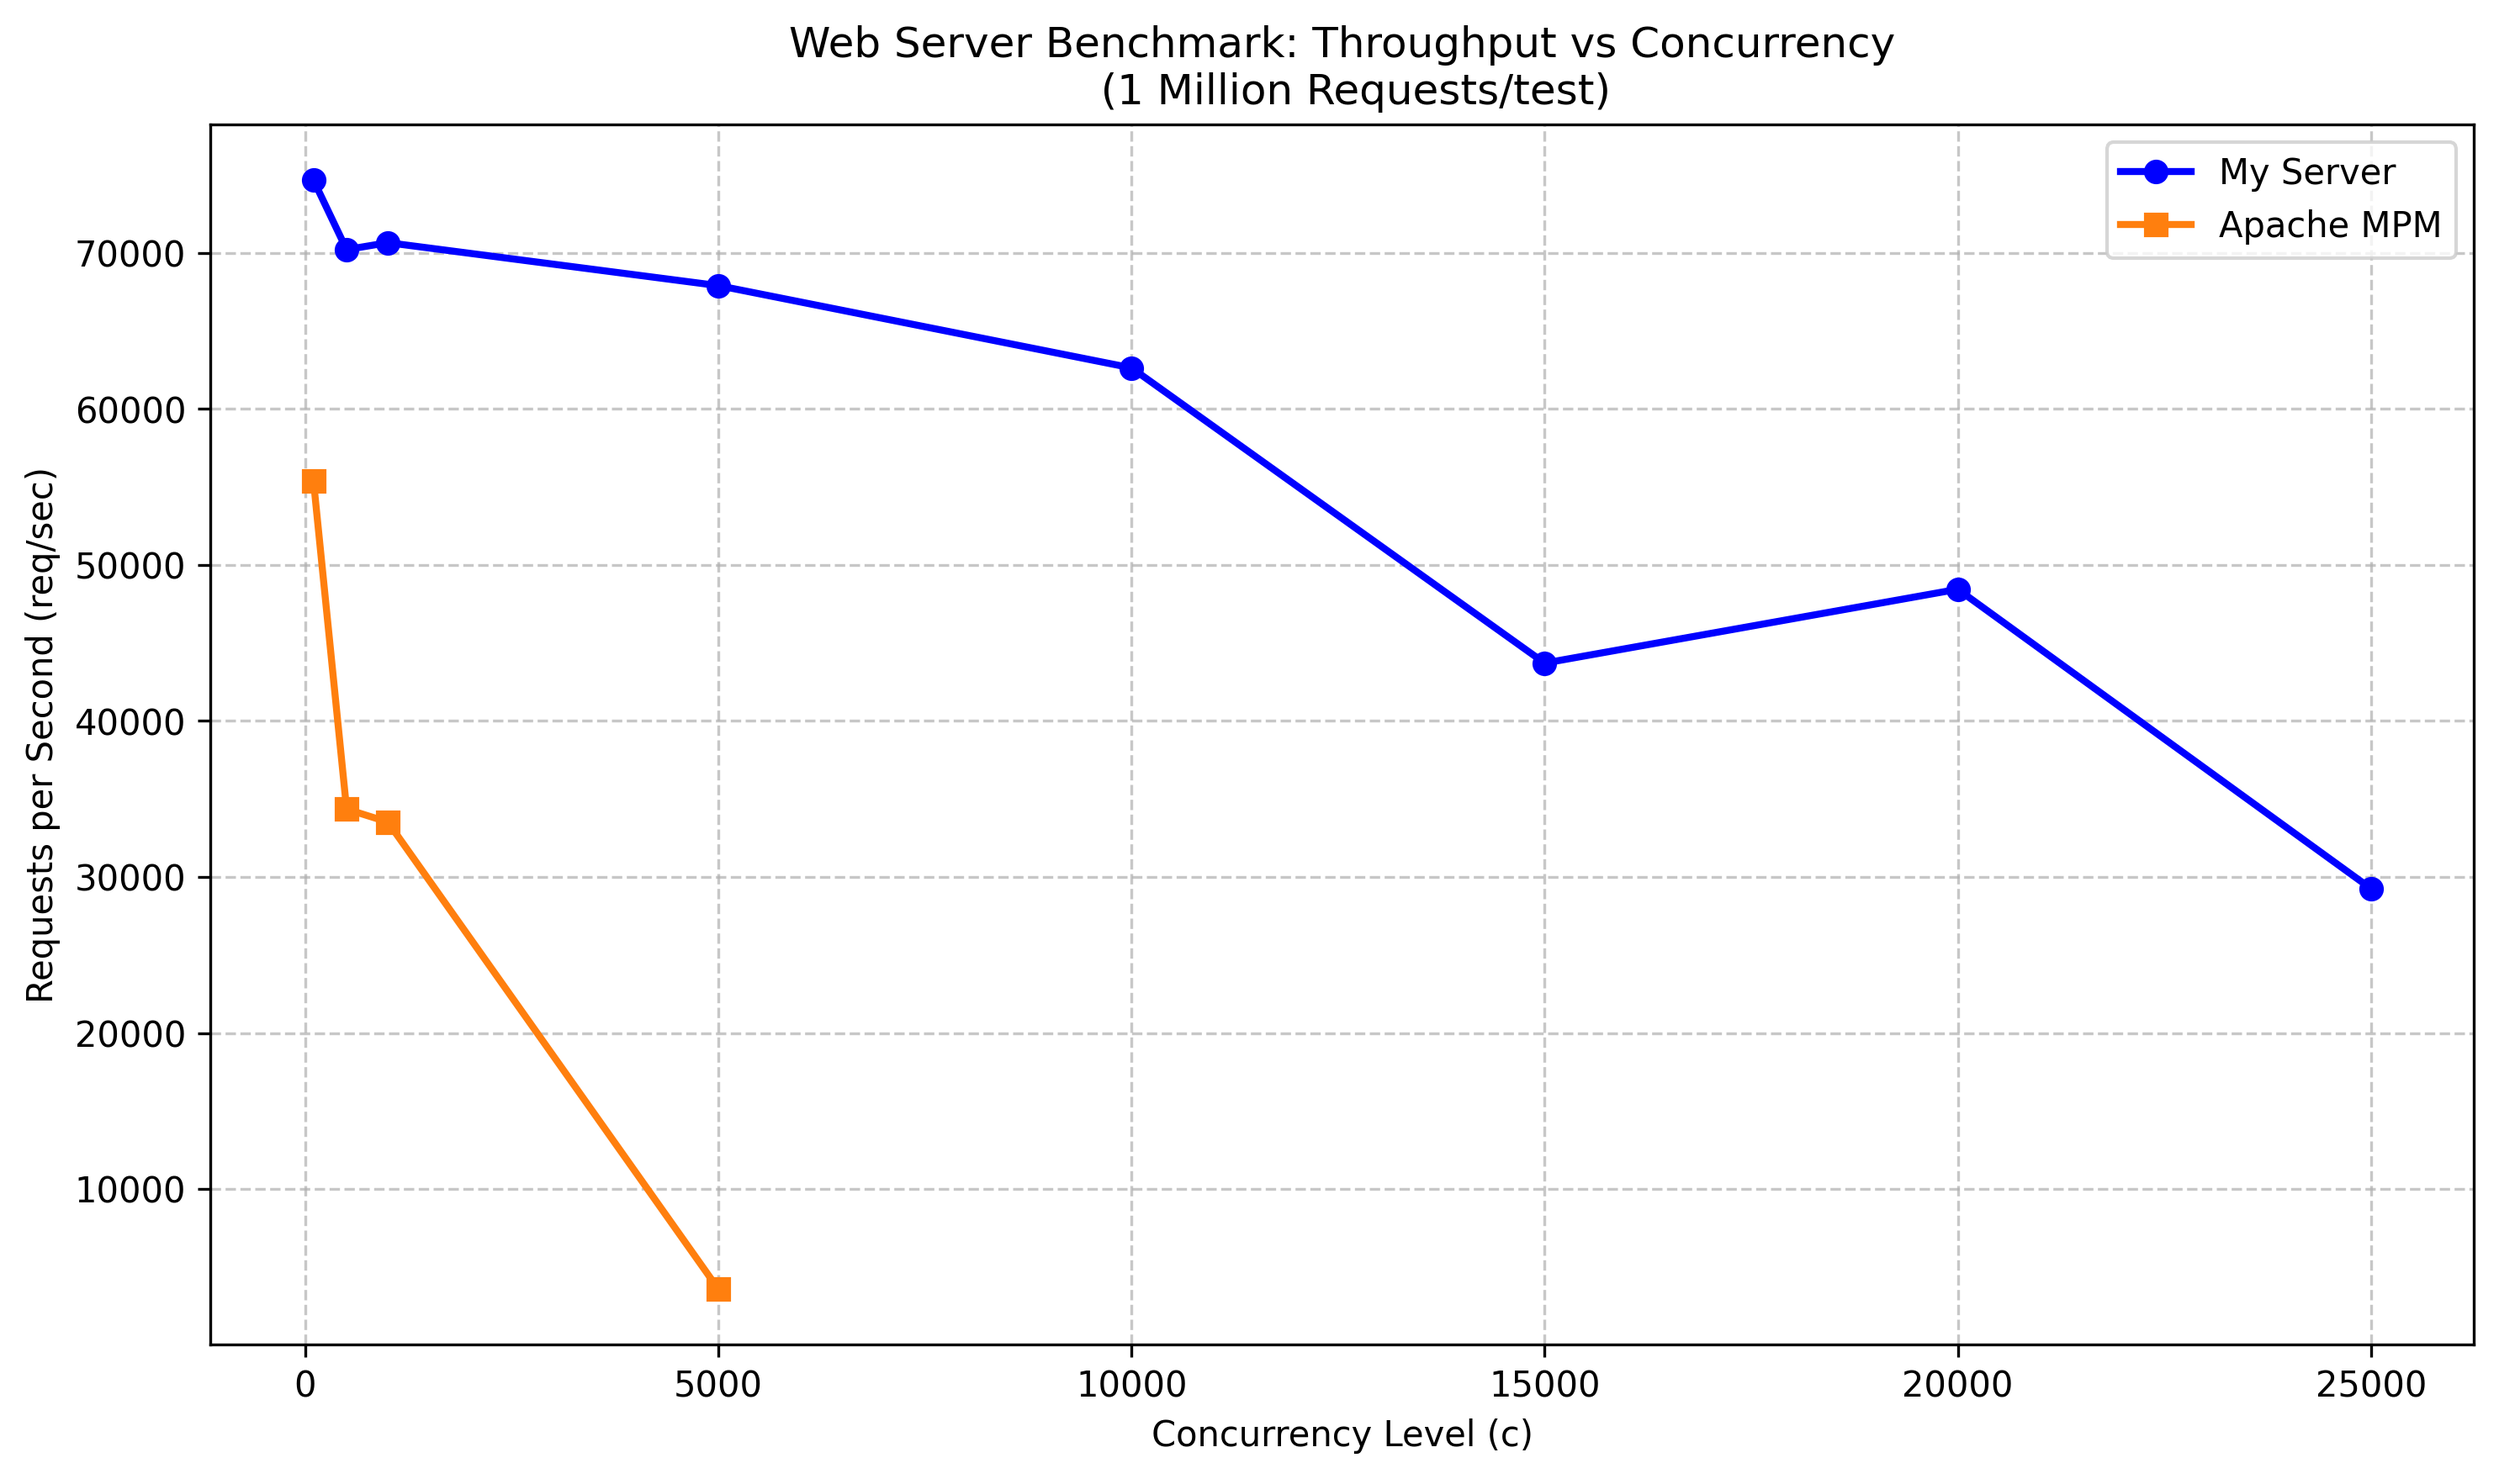
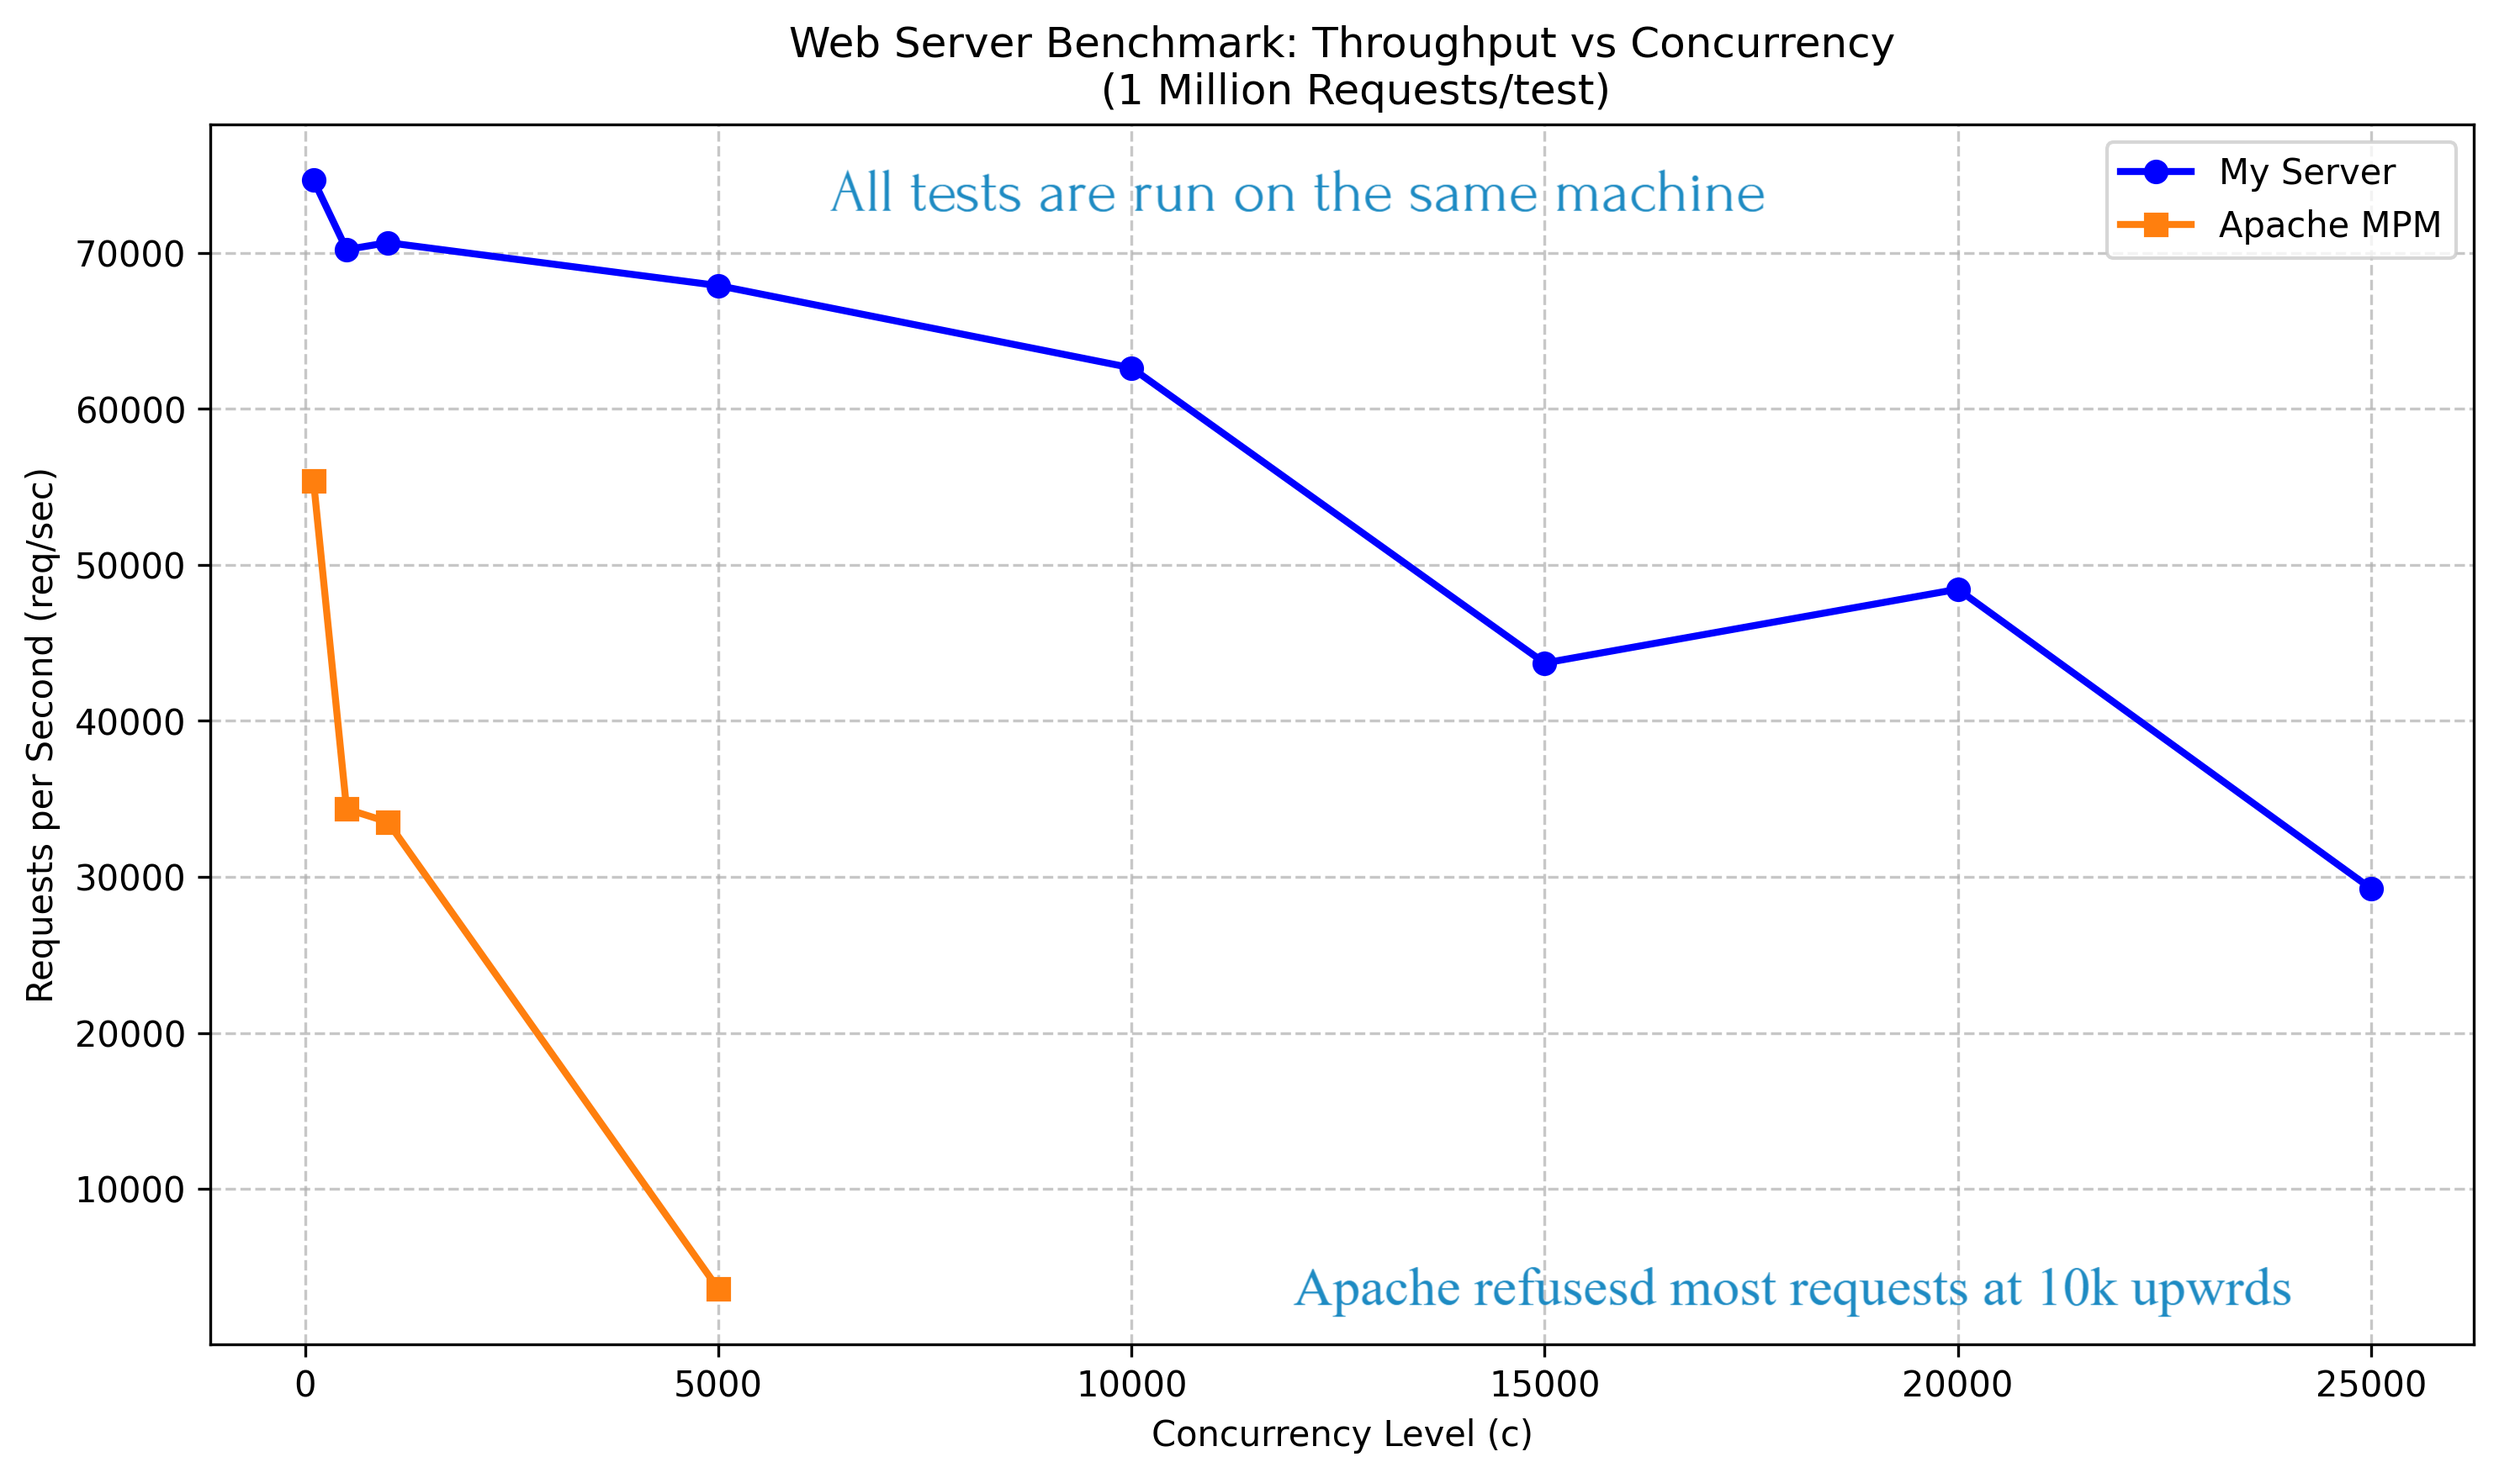
more readme fixes

diff --git a/benchmark/matplotPY/stres.py b/benchmark/matplotPY/stres.py
@@ -1,6 +1,5 @@
 import matplotlib.pyplot as plt
 
-# Concurrency levels
 c_custom = [100, 500, 1000, 5000, 10000, 15000, 20000, 25000]
 req_sec_custom = [74663.79, 70217.55, 70660.96, 67906.72, 62632.71, 43709.88, 48442.15, 29257.13]
 
@@ -9,11 +8,9 @@ req_sec_apache = [55368.50, 34350.13, 33517.64, 3575.69]
 
 plt.figure(figsize=(10, 6))
 
-# Plotting performance curves
 plt.plot(c_custom, req_sec_custom, marker='o', color='blue', label='My Server', linewidth=2)
 plt.plot(c_apache, req_sec_apache, marker='s', color='tab:orange', label='Apache MPM', linewidth=2)
 
-# Graph styling
 plt.title('Web Server Benchmark: Throughput vs Concurrency\n' \
 '  (1 Million Requests/test)')
 plt.xlabel('Concurrency Level (c)')
@@ -21,7 +18,7 @@ plt.ylabel('Requests per Second (req/sec)')
 plt.grid(True, linestyle='--', alpha=0.7)
 plt.legend()
 
-# Display plot
+#  plot
 plt.tight_layout()
 plt.savefig(
     r'c:\Users\EL10_gazy\Pictures\server_benchmark.png',

diff --git a/benchmark/matplotPY/p99.py b/benchmark/matplotPY/p99.py
@@ -1,15 +1,14 @@
 import matplotlib.pyplot as plt
 
-# Concurrency levels
 c_custom = [100, 500, 1000, 5000, 10000]
-p99_custom_ms = [4.8, 27.2, 35.3, 30.5, 794.3]  # converted to ms
+p99_custom_ms = [4.8, 27.2, 35.3, 30.5, 794.3]  
 
 c_apache = [100, 500, 1000, 5000]
 p99_apache_ms = [7.7, 50.4, 254.6, 4581.1]  # converted to ms
 
 plt.figure(figsize=(10, 6))
 
-# Plotting performance curves
+
 plt.plot(
     c_custom,
     p99_custom_ms,
@@ -27,7 +26,7 @@ plt.plot(
     linewidth=2,
 )
 
-# Graph styling
+
 plt.title(
     'Web Server Benchmark: p99 Latency vs Concurrency\n(1 Million'
     ' Requests/test)'
@@ -37,7 +36,7 @@ plt.ylabel('p99 Latency (ms)')
 plt.grid(True, linestyle='--', alpha=0.7)
 plt.legend()
 
-# Display and save plot
+
 plt.tight_layout()
 plt.savefig(
     r'c:\Users\EL10_gazy\Pictures\server_p99_benchmark.png',

diff --git a/benchmark/matplotPY/bigfile.py b/benchmark/matplotPY/bigfile.py
@@ -1,6 +1,6 @@
 import matplotlib.pyplot as plt
 
-# Concurrency levels
+
 c_custom = [100, 500, 1000, 5000, 10000]
 req_sec_custom = [629.97, 647.44, 675.85, 723.36, 825.20]
 
@@ -9,7 +9,7 @@ req_sec_apache = [2133.65, 2013.22, 2065.85, 249.81, 495.45]
 
 plt.figure(figsize=(10, 6))
 
-# Plotting performance curves
+
 plt.plot(
     c_custom,
     req_sec_custom,
@@ -27,7 +27,6 @@ plt.plot(
     linewidth=2,
 )
 
-# Graph styling
 plt.title(
     'Web Server Benchmark: Throughput vs Concurrency (3.73 MB Large'
     ' File)\n(10,000 Requests/test)'
@@ -37,7 +36,7 @@ plt.ylabel('Requests per Second (req/sec)')
 plt.grid(True, linestyle='--', alpha=0.7)
 plt.legend()
 
-# Display and save plot
+
 plt.tight_layout()
 plt.savefig(
     r'c:\Users\EL10_gazy\Pictures\server_bigfile_benchmark.png',
